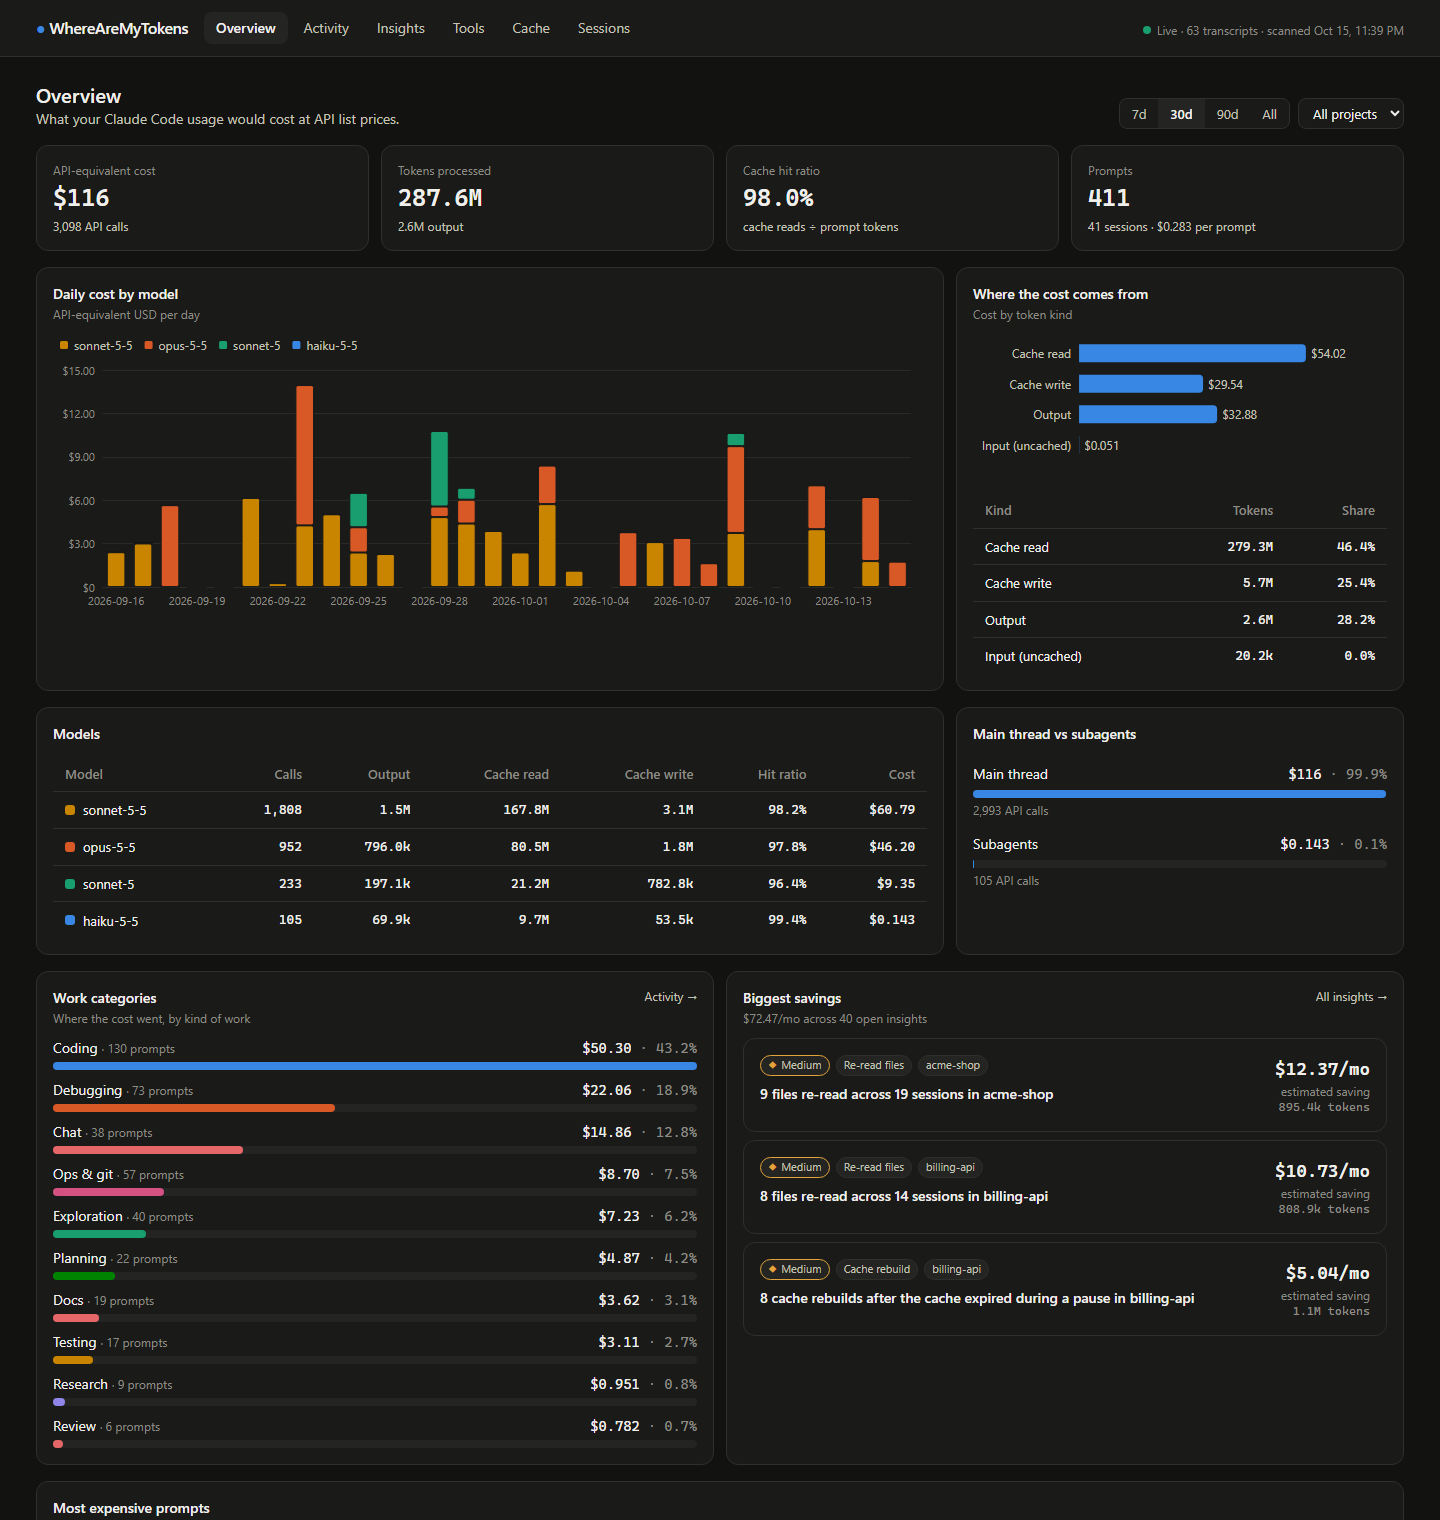
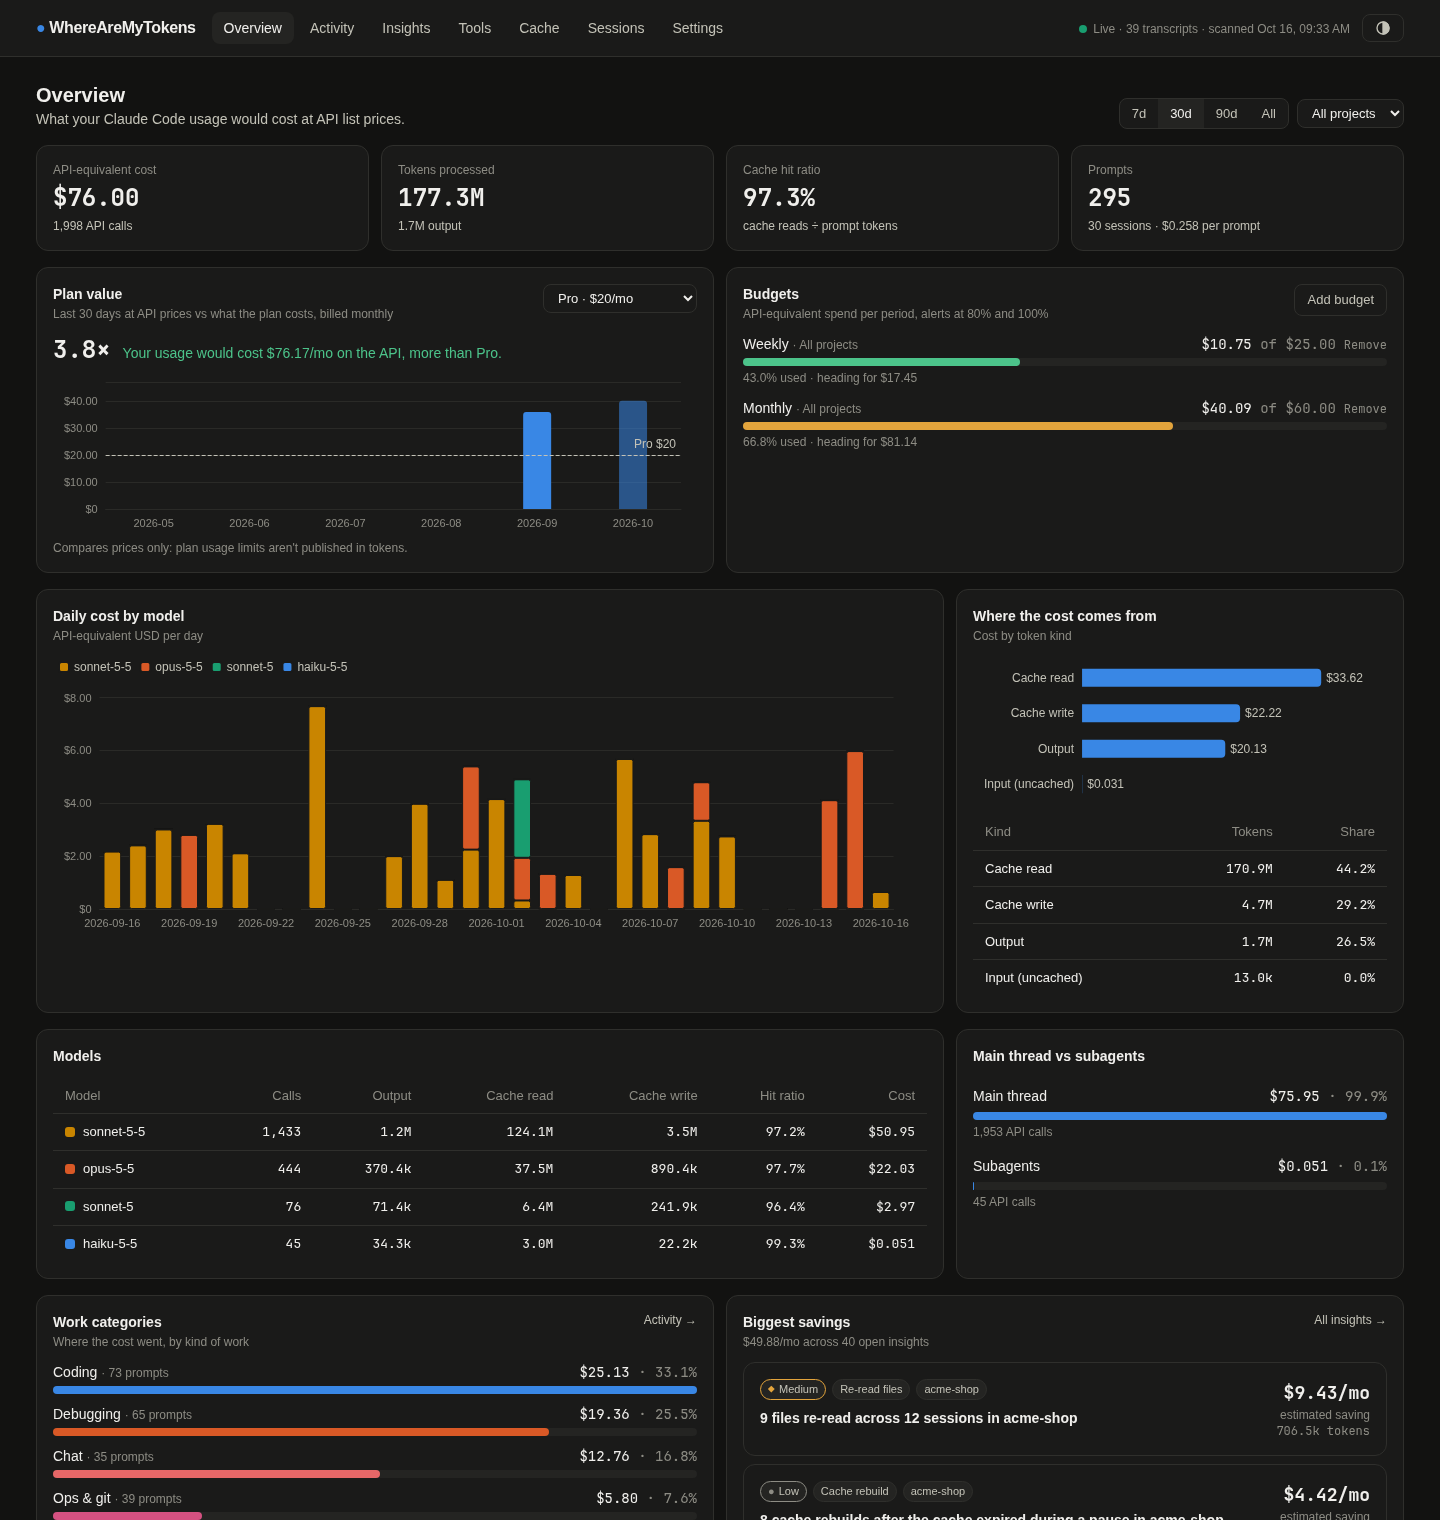
Refresh the README: demo GIF, one-command demo, new screenshots
- docs/demo.gif as the hero, then `docker run ... demo` right below it.
- Screenshots regenerated from demo data with the 0.3 features (plan
  value, budgets, Settings), by the new `make screenshots`
  (web/scripts/showcase.mjs, Playwright + ffmpeg).
- Release and multi-arch image badges, a standalone SQLite `docker run`,
  and a line asking for a star.

diff --git a/README.md b/README.md
@@ -7,15 +7,20 @@
 Self-hosted usage analytics for Claude Code Pro/Max subscriptions. One `docker compose up`, read-only access to your local transcripts, nothing leaves your machine.
 
 [![CI](https://github.com/Gerijacki/WhereAreMyTokens/actions/workflows/ci.yml/badge.svg)](https://github.com/Gerijacki/WhereAreMyTokens/actions/workflows/ci.yml)
+[![Release](https://img.shields.io/github/v/release/Gerijacki/WhereAreMyTokens?color=2a78d6)](https://github.com/Gerijacki/WhereAreMyTokens/releases)
+[![Docker image](https://img.shields.io/badge/ghcr.io-amd64%20%7C%20arm64-2496ed?logo=docker&logoColor=white)](https://github.com/Gerijacki/WhereAreMyTokens/pkgs/container/wherearemytokens)
 [![License: MIT](https://img.shields.io/badge/license-MIT-blue.svg)](LICENSE)
 ![Python 3.12+](https://img.shields.io/badge/python-3.12%2B-3776ab)
 ![Docker](https://img.shields.io/badge/docker-ready-2496ed)
 ![Self-hosted](https://img.shields.io/badge/self--hosted-yes-1baf7a)
 
-<picture>
-  <source media="(prefers-color-scheme: dark)" srcset="docs/screenshots/overview-dark.png">
-  <img alt="WhereAreMyTokens overview: API-equivalent cost, cache hit ratio, cost by model and work category" src="docs/screenshots/overview-light.png" width="100%">
-</picture>
+<img alt="A tour of WhereAreMyTokens: the overview with plan value and budgets, an insight with its ready-to-paste fix, a session, and the dark theme" src="docs/demo.gif" width="100%">
+
+**Try it in one command**, on synthetic data (nothing from your machine is read):
+
+```bash
+docker run --rm -p 8788:8787 ghcr.io/gerijacki/wherearemytokens demo    # then open http://localhost:8788
+```
 
 [Quick start](#quick-start) · [Try the demo](#try-it-with-demo-data) · [Features](#features) · [Insights](#automate-this-insights) · [Self-hosting](#self-hosting) · [FAQ](#faq)
 
@@ -49,9 +54,16 @@ Open **http://localhost:8787**. The first start imports your whole history (a fe
 
 > On Windows, set `CLAUDE_PROJECTS_DIR=C:/Users/<you>/.claude/projects` in `.env`.
 
+Prefer a single container with SQLite instead of PostgreSQL? Mount your transcripts and a volume for the history:
+
+```bash
+docker run -d --name wamt -p 8787:8787 -v ~/.claude/projects:/data/claude:ro -v wamt-data:/data/wamt \
+  ghcr.io/gerijacki/wherearemytokens
+```
+
 ### Try it with demo data
 
-No Claude Code history yet, or want to look before mounting your own data? The demo generates realistic synthetic transcripts and doesn't read anything from your machine:
+No Claude Code history yet, or want to look before mounting your own data? The demo generates realistic synthetic transcripts and doesn't read anything from your machine. Run `docker run --rm -p 8788:8787 ghcr.io/gerijacki/wherearemytokens demo`, or build it from the repo:
 
 ```bash
 docker compose -f docker-compose.demo.yml up --build    # http://localhost:8788
@@ -74,6 +86,11 @@ docker compose -f docker-compose.demo.yml up --build    # http://localhost:8788
 | **Export** | Sessions, prompts and daily costs per project and model as CSV or JSON, for billing clients or your own analysis. |
 | **Self-hosting** | Multi-device agent, optional password or reverse-proxy auth, ntfy/Discord/Slack alerts, Prometheus `/metrics`, OpenTelemetry receiver, privacy mode. |
 
+<picture>
+  <source media="(prefers-color-scheme: dark)" srcset="docs/screenshots/overview-dark.png">
+  <img alt="Overview: API-equivalent cost, plan value against Pro, budgets, cost by model and token kind" src="docs/screenshots/overview-light.png" width="100%">
+</picture>
+
 <table>
 <tr>
 <td width="50%"><picture><source media="(prefers-color-scheme: dark)" srcset="docs/screenshots/activity-dark.png"><img alt="Activity: cost by work category, 5-hour blocks and heatmap" src="docs/screenshots/activity-light.png"></picture></td>
@@ -82,6 +99,9 @@ docker compose -f docker-compose.demo.yml up --build    # http://localhost:8788
 <tr>
 <td width="50%"><picture><source media="(prefers-color-scheme: dark)" srcset="docs/screenshots/tools-dark.png"><img alt="Tools: most-run commands, most-read files and largest results" src="docs/screenshots/tools-light.png"></picture></td>
 <td width="50%"><picture><source media="(prefers-color-scheme: dark)" srcset="docs/screenshots/session-dark.png"><img alt="Session detail: cost per prompt, events and categories" src="docs/screenshots/session-light.png"></picture></td>
+</tr>
+<tr>
+<td colspan="2" align="center"><picture><source media="(prefers-color-scheme: dark)" srcset="docs/screenshots/settings-dark.png"><img alt="Settings: theme, currency, plan, password, devices and exports" src="docs/screenshots/settings-light.png" width="50%"></picture></td>
 </tr>
 </table>
 
@@ -212,6 +232,7 @@ make dev-api    # demo data in .dev/ and the API on :8787 (SQLite)
 make dev-web    # http://localhost:5173, proxies /api to :8787
 make check      # pytest, ruff, Vitest and the production build
 make e2e        # Playwright end-to-end tests against the real backend on demo data
+make screenshots  # regenerate the README screenshots and docs/demo.gif from demo data (needs ffmpeg)
 ```
 
 Or by hand:
@@ -253,6 +274,8 @@ Architecture notes for contributors are in [CLAUDE.md](CLAUDE.md), and the contr
 - [ ] Weekly report email and shareable read-only links
 
 Ideas and insight detectors are very welcome. Open an issue with the *Insight idea* template.
+
+If WhereAreMyTokens saved you tokens, a ⭐ helps other Claude Code users find it.
 
 ## License
 

diff --git a/CHANGELOG.md b/CHANGELOG.md
@@ -2,6 +2,18 @@
 
 All notable changes are listed here. The format follows [Keep a Changelog](https://keepachangelog.com/en/1.1.0/), and the project uses [Semantic Versioning](https://semver.org/).
 
+## [Unreleased]
+
+### Added
+
+- `docker run ghcr.io/gerijacki/wherearemytokens demo`: try it in one command on synthetic data, without cloning.
+- The image runs standalone with SQLite in `/data/wamt` (a volume) when `WAMT_DATABASE_URL` isn't set. Before, it failed to start without PostgreSQL.
+- `make screenshots` regenerates the README screenshots and the demo GIF from demo data.
+
+### Changed
+
+- The image has an entrypoint: `serve` (default), `demo`, or any command such as `wamt agent`.
+
 ## [0.3.0] - 2026-10-16
 
 > **Heads-up:** amounts are now shown in **euros by default**. To keep dollars, switch to USD in *Settings* or set `WAMT_CURRENCY=USD`. Set your exchange rate there too (`WAMT_EUR_PER_USD`, default 0.86): WAMT never looks it up online. Stored data is unchanged; the API still serves USD.

diff --git a/CONTRIBUTING.md b/CONTRIBUTING.md
@@ -56,4 +56,4 @@ To get realistic data without your own, run `wamt demo --dir /tmp/demo` and then
 
 - Keep PRs focused and describe the user-visible change.
 - `pytest`, `ruff`, `pnpm build`, `pnpm test` and `pnpm test:e2e` must pass (`make check e2e`). CI also smoke-tests the Docker image on demo data.
-- For UI changes, add a screenshot taken from **demo data**.
+- For UI changes, add a screenshot taken from **demo data**. `make screenshots` regenerates every README screenshot (light and dark) and `docs/demo.gif` from it; commit them when a page you changed appears there.
